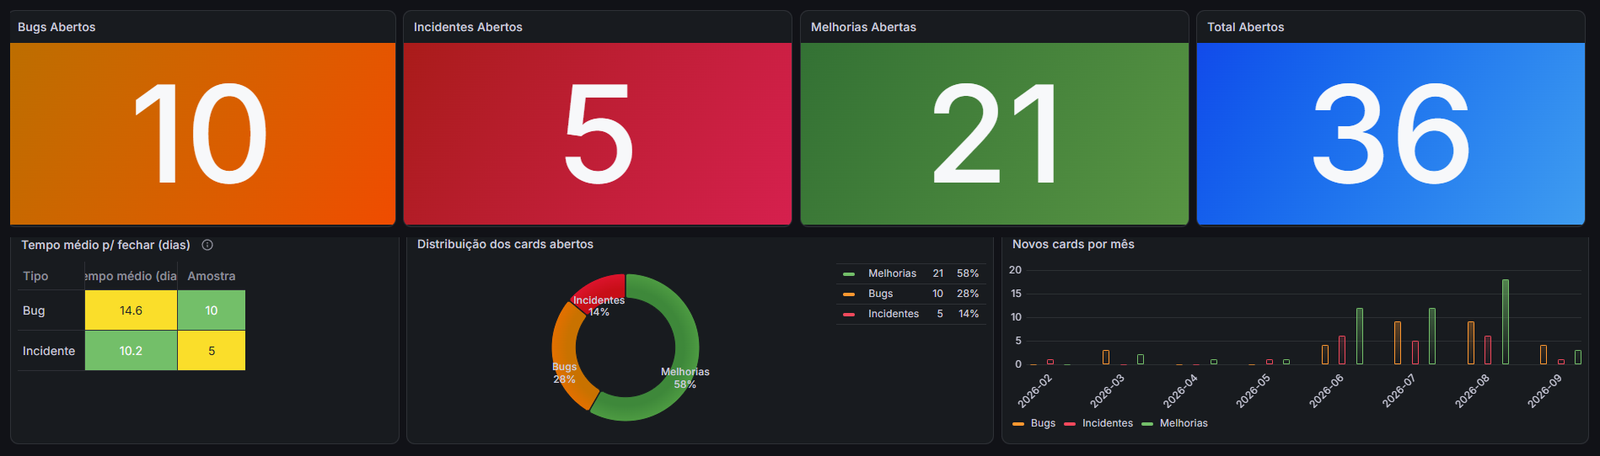
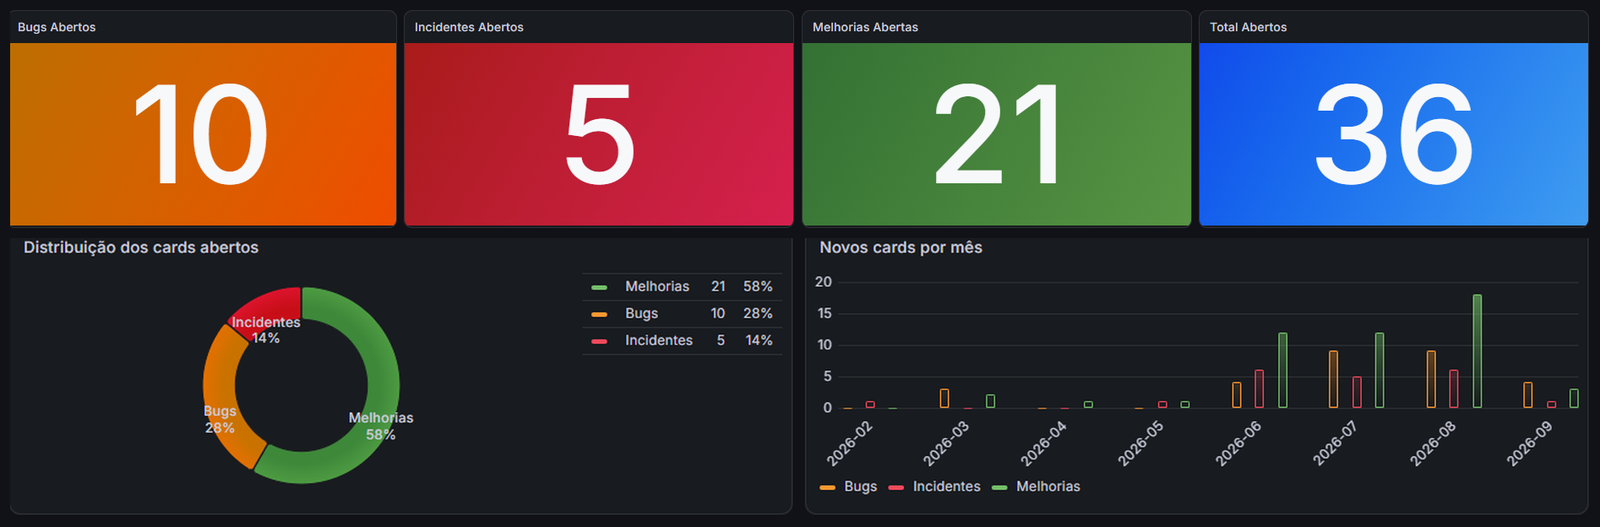
Print do Grafana sem tempo médio e nova legenda

diff --git a/index.html b/index.html
@@ -331,7 +331,7 @@ footer.page{text-align:center;font:12px var(--mono);color:var(--muted);padding-b
           <img src="grafana.png" alt="Print do dashboard de qualidade no Grafana" onerror="this.hidden=true;this.nextElementSibling.hidden=false">
           <div class="ph" hidden>PRINT DO GRAFANA<br>anexar <code>grafana.png</code></div>
         </div>
-        <figcaption>Visão geral do painel: totais em aberto, tempo médio para fechar e novos cards por mês.</figcaption>
+        <figcaption>Visão geral do painel: totais em aberto, distribuição por tipo e novos cards por mês.</figcaption>
       </figure>
       <p class="todo-line">Antes, pra saber o que estava fora do SLA, alguém tinha que abrir o board e contar card por card. Agora a gerência abre o painel e vê na hora o que está atrasado e em qual área.</p>
       <a class="repo" href="https://github.com/BrenoSantos07/dashboard-grafana-analise-qualidade" target="_blank" rel="noopener">github.com/BrenoSantos07/dashboard-grafana-analise-qualidade</a>
